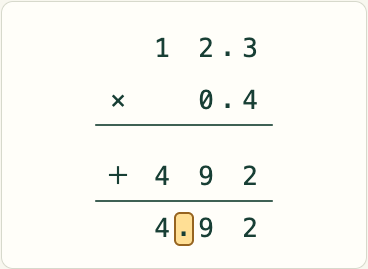
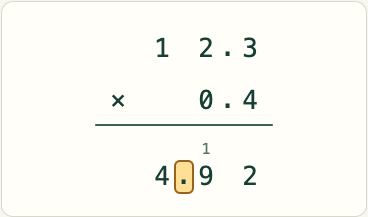
Skip redundant sum for single-digit multiplication

diff --git a/src/session.ts b/src/session.ts
@@ -127,7 +127,7 @@ export function generate(c: Config, seed: number): Problem {
   );
 }
 export type Entry = {
-  engineRevision?: 2 | 3;
+  engineRevision?: 2 | 3 | 4;
   p: Problem;
   values: string[];
   at: number;
@@ -150,7 +150,7 @@ export const fresh = (): Data => ({
   history: [],
 });
 export const entry = (p: Problem): Entry => ({
-  engineRevision: 3,
+  engineRevision: 4,
   p,
   values: worksheet(p).steps.map(() => ""),
   at: 0,
@@ -213,20 +213,37 @@ export function validSession(s: Session): boolean {
   });
 }
 
-// Match previous worksheet sequences before validating, preserving answers
-// when multiplication gains sum steps or division drops borrow notes.
+// Convert previous worksheet sequences before validating saved answers.
 export function upgradeSession(session: Session): Session {
   if (!session || !Array.isArray(session.items)) return session;
   return {
     ...session,
     items: session.items.map((item) => {
-      if (!item || item.engineRevision === 3) return item;
-      if (item.p?.op === 3 && Array.isArray(item.values)) {
-        try {
+      if (!item || item.engineRevision === 4) return item;
+      try {
+        const current = worksheet(item.p);
+        if (!Array.isArray(item.values)) return item;
+        if (item.values.length === current.steps.length)
+          return { ...item, engineRevision: 4 as const };
+        const singleDigit =
+          item.p.op === 2 &&
+          String(Number(item.p.nums[1].replace(".", ""))).length === 1;
+        if (singleDigit) {
+          const previous = worksheet(item.p, { singleDigitSum: true });
+          if (item.values.length !== previous.steps.length) return item;
+          const indices = previous.steps.flatMap((step, index) =>
+            step.phase === "sum" ? [] : [index],
+          );
+          const at = indices.findIndex((index) => index >= item.at);
+          return {
+            ...item,
+            engineRevision: 4 as const,
+            values: indices.map((index) => item.values[index]),
+            at: at < 0 ? current.steps.length - 1 : at,
+          };
+        }
+        if (item.p.op === 3) {
           const previous = worksheet(item.p, { divisionBorrowNotes: true });
-          const current = worksheet(item.p);
-          if (item.values.length === current.steps.length)
-            return { ...item, engineRevision: 3 as const };
           if (item.values.length !== previous.steps.length) return item;
           const key = (step: (typeof current.steps)[number]) =>
             [step.guide, step.cell.row, step.cell.col, !!step.cell.point].join(
@@ -239,52 +256,12 @@ export function upgradeSession(session: Session): Session {
           const at = indices.findIndex((index) => index >= item.at);
           return {
             ...item,
-            engineRevision: 3 as const,
+            engineRevision: 4 as const,
             values: indices.map((index) => item.values[index]),
             at: at < 0 ? current.steps.length - 1 : at,
           };
-        } catch {
-          return item;
         }
-      }
-      if (item.engineRevision === 2)
-        return { ...item, engineRevision: 3 as const };
-      try {
-        const sheet = worksheet(item.p);
-        const singleDigit =
-          item.p.op === 2 &&
-          String(Number(item.p.nums[1].replace(".", ""))).length === 1;
-        const sumSteps = sheet.steps.filter((step) => step.phase === "sum");
-        if (
-          !singleDigit ||
-          !Array.isArray(item.values) ||
-          item.values.length !== sheet.steps.length - sumSteps.length
-        )
-          return item;
-        let oldIndex = 0;
-        const oldToNew: number[] = [];
-        const values = sheet.steps.map((step, index) => {
-          if (step.phase === "sum") {
-            if (!item.checked) return "";
-            const partial = sheet.steps.findIndex(
-              (other) =>
-                other.phase !== "sum" &&
-                !other.cell.point &&
-                other.cell.col === step.cell.col &&
-                other.cell.row === 4,
-            );
-            const prior = oldToNew.indexOf(partial);
-            return prior >= 0 ? item.values[prior] : "";
-          }
-          oldToNew[oldIndex] = index;
-          return item.values[oldIndex++];
-        });
-        return {
-          ...item,
-          engineRevision: 3 as const,
-          values,
-          at: oldToNew[item.at] ?? 0,
-        };
+        return item;
       } catch {
         return item;
       }

diff --git a/src/engine.ts b/src/engine.ts
@@ -33,7 +33,7 @@ const place = (p: number) =>
   String(10 ** p);
 export function worksheet(
   problem: Problem,
-  options: { divisionBorrowNotes?: boolean } = {},
+  options: { divisionBorrowNotes?: boolean; singleDigitSum?: boolean } = {},
 ) {
   const { op, nums } = problem;
   if (
@@ -280,16 +280,19 @@ export function worksheet(
       );
       parts.push(a * m * 10 ** p);
     });
-    const last = 4 + 2 * (factors.length - 1),
-      final = last + 3;
-    cell(last, -width, "＋", "部分積を足す");
-    lines.push({ row: last + 1, left: -width, right: 0 });
-    const sumStart = steps.length;
-    sum(parts, rows, final, final - 1);
-    for (const step of steps.slice(sumStart)) {
-      step.phase = "sum";
-      step.guide = "最後の足し算・" + step.guide;
-      step.cell.label = step.guide;
+    const last = 4 + 2 * (factors.length - 1);
+    const needsSum = factors.length > 1 || options.singleDigitSum === true;
+    const final = needsSum ? last + 3 : last;
+    if (needsSum) {
+      cell(last, -width, "＋", "部分積を足す");
+      lines.push({ row: last + 1, left: -width, right: 0 });
+      const sumStart = steps.length;
+      sum(parts, rows, final, final - 1);
+      for (const step of steps.slice(sumStart)) {
+        step.phase = "sum";
+        step.guide = "最後の足し算・" + step.guide;
+        step.cell.label = step.guide;
+      }
     }
     const decimals = scale(nums[0]) + scale(nums[1]);
     const raw = String(a * b).padStart(decimals + 1, "0");

diff --git a/docs/QA_REPORT.md b/docs/QA_REPORT.md
@@ -155,3 +155,11 @@ iPhone相当の幅390px・モバイル・タッチ設定の別ブラウザコン
 専用のtests/arithmetic-browser.mjsで、46+38、99+99+99、100−1、302−178、27×13、99×99、105×20、12.3×0.4、9999×9999を最初から入力して完答した。補助数字の表示、斜線、掛け算の最終加算、幅320／375／390／430px、入力先の可視性、ブラウザ例外がないことを確認した。
 
 単体試験38件、上記9例の専用試験、既存8例のブラウザ回帰、整数割り算と小数の専用試験、型チェック、Lint、ビルドが成功した。足し算・引き算・掛け算の画像を目視確認し、Masu.appを更新・再起動した。実際のiPhone・Android端末での確認は未実施。
+
+## 乗数が1桁の場合の最終加算の省略
+
+乗数が1桁の場合は、積の行を最終結果とし、加算記号・二本目の横線・和の再入力を省略した。66×8では繰り上がりを含む4手順で528を作り、同じ528をもう一度入力する必要がない。2桁以上の部分積の加算は維持する。小数でも、小数点を除いた乗数が1桁なら同様とし、位取りの0と小数点を積の行へ入力する。
+
+保存済みの旧手順から最終加算だけを取り除く移行を追加した。途中の全入力位置からの再開、正誤・ヒント情報の保持、移行の再実行を単体試験で確認した。ブラウザでも66×8の旧データを最終加算の直前から読み込み、回答を再入力せずに正解となることを確認した。
+
+単体試験38件、Lint、型チェック・ビルド、.app署名検証が成功した。筆算の専用ブラウザ試験は66×8、0×7、0.1×0.1を加えた12例で成功し、1桁の乗数で答えが1行・横線が1本になることと、幅320／375／390／430pxを確認した。66×8と0.1×0.1の画像も目視確認した。既存8例のブラウザ回帰、整数割り算、小数点移動、LANのモバイル・タッチ試験も成功した。Masu.appを更新して再起動済み。実際のiPhone・Android端末での確認は未実施。
